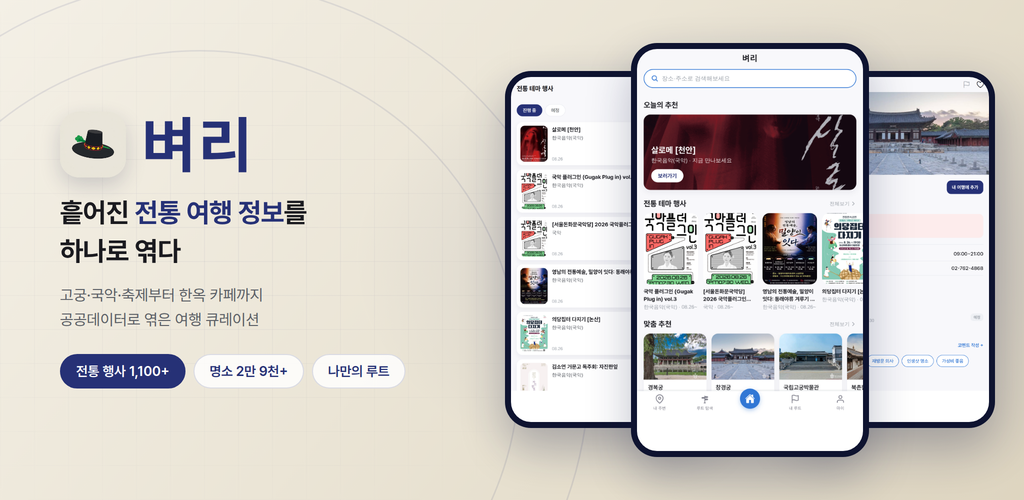
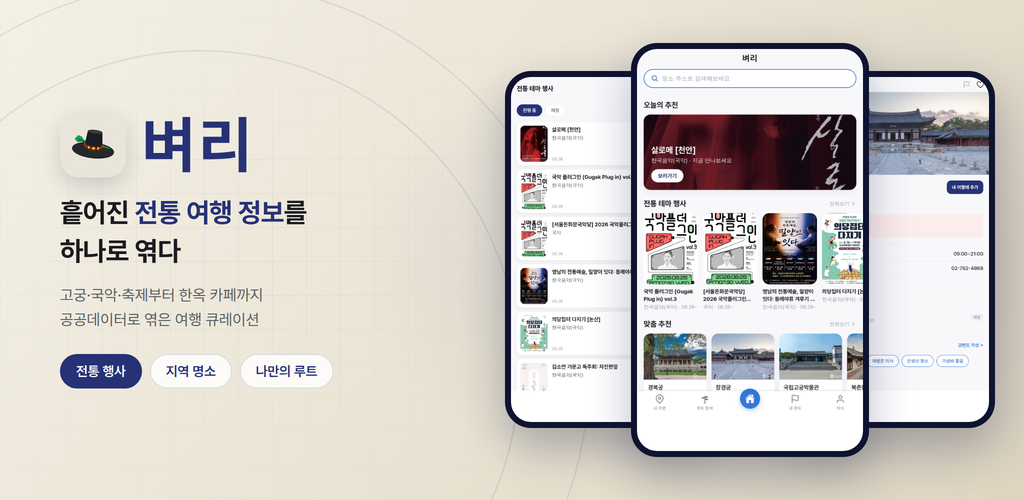
chore(store): 그래픽 이미지 칩에서 건수 제거 (#24)
"전통 행사 1,100+", "명소 2만 9천+" 처럼 수치를 박아 두면 공공데이터
동기화로 값이 바뀔 때마다 그래픽을 다시 검증해야 하고, 줄어들면
스토어 등록정보가 사실과 어긋난다.

기능 이름만 남긴다 — 전통 행사 / 지역 명소 / 나만의 루트.

Claude-Session: https://claude.ai/code/session_0189LLCe4HXZJT526WbUcYHm

Changed region(s): [[0.125, 0.69, 0.4062, 0.78]]

diff --git a/docs/store/feature-graphic.html b/docs/store/feature-graphic.html
@@ -79,8 +79,8 @@
       <div class="tag">흩어진 <em>전통 여행 정보</em>를<br>하나로 엮다</div>
       <div class="sub">고궁·국악·축제부터 한옥 카페까지<br>공공데이터로 엮은 여행 큐레이션</div>
       <div class="chips">
-        <span class="chip hot">전통 행사 1,100+</span>
-        <span class="chip">명소 2만 9천+</span>
+        <span class="chip hot">전통 행사</span>
+        <span class="chip">지역 명소</span>
         <span class="chip">나만의 루트</span>
       </div>
     </div>

diff --git a/docs/store/README.md b/docs/store/README.md
@@ -91,9 +91,9 @@ im.resize((1024,500), Image.LANCZOS).save('feature-graphic-1024x500.png', optimi
   `object-fit:cover`가 화면 위아래를 잘라내 "앱이 잘린" 그래픽이 된다.
 - **회전(`transform:rotate`)을 쓰지 않는다.** 회전은 바운딩 박스를 키워
   기기가 캔버스 밖으로 삐져나간다.
-- 좌측 문구의 숫자는 실제 DB 집계와 맞춰야 한다. 현재 값의 근거:
-  `select count(*) from performances where traditional = true` → 1,265 (문구 "1,100+"),
-  `select count(*) from venues` → 29,466 (문구 "2만 9천+"). 데이터가 줄면 문구도 낮춘다.
+- **칩 문구에 건수를 넣지 않는다.** 공공데이터 동기화로 수치가 계속 변해
+  그래픽을 다시 만들 때마다 검증해야 하고, 줄어들면 사실과 어긋난다.
+  기능 이름만 쓴다(전통 행사 / 지역 명소 / 나만의 루트).
 
 ## 문구
 
